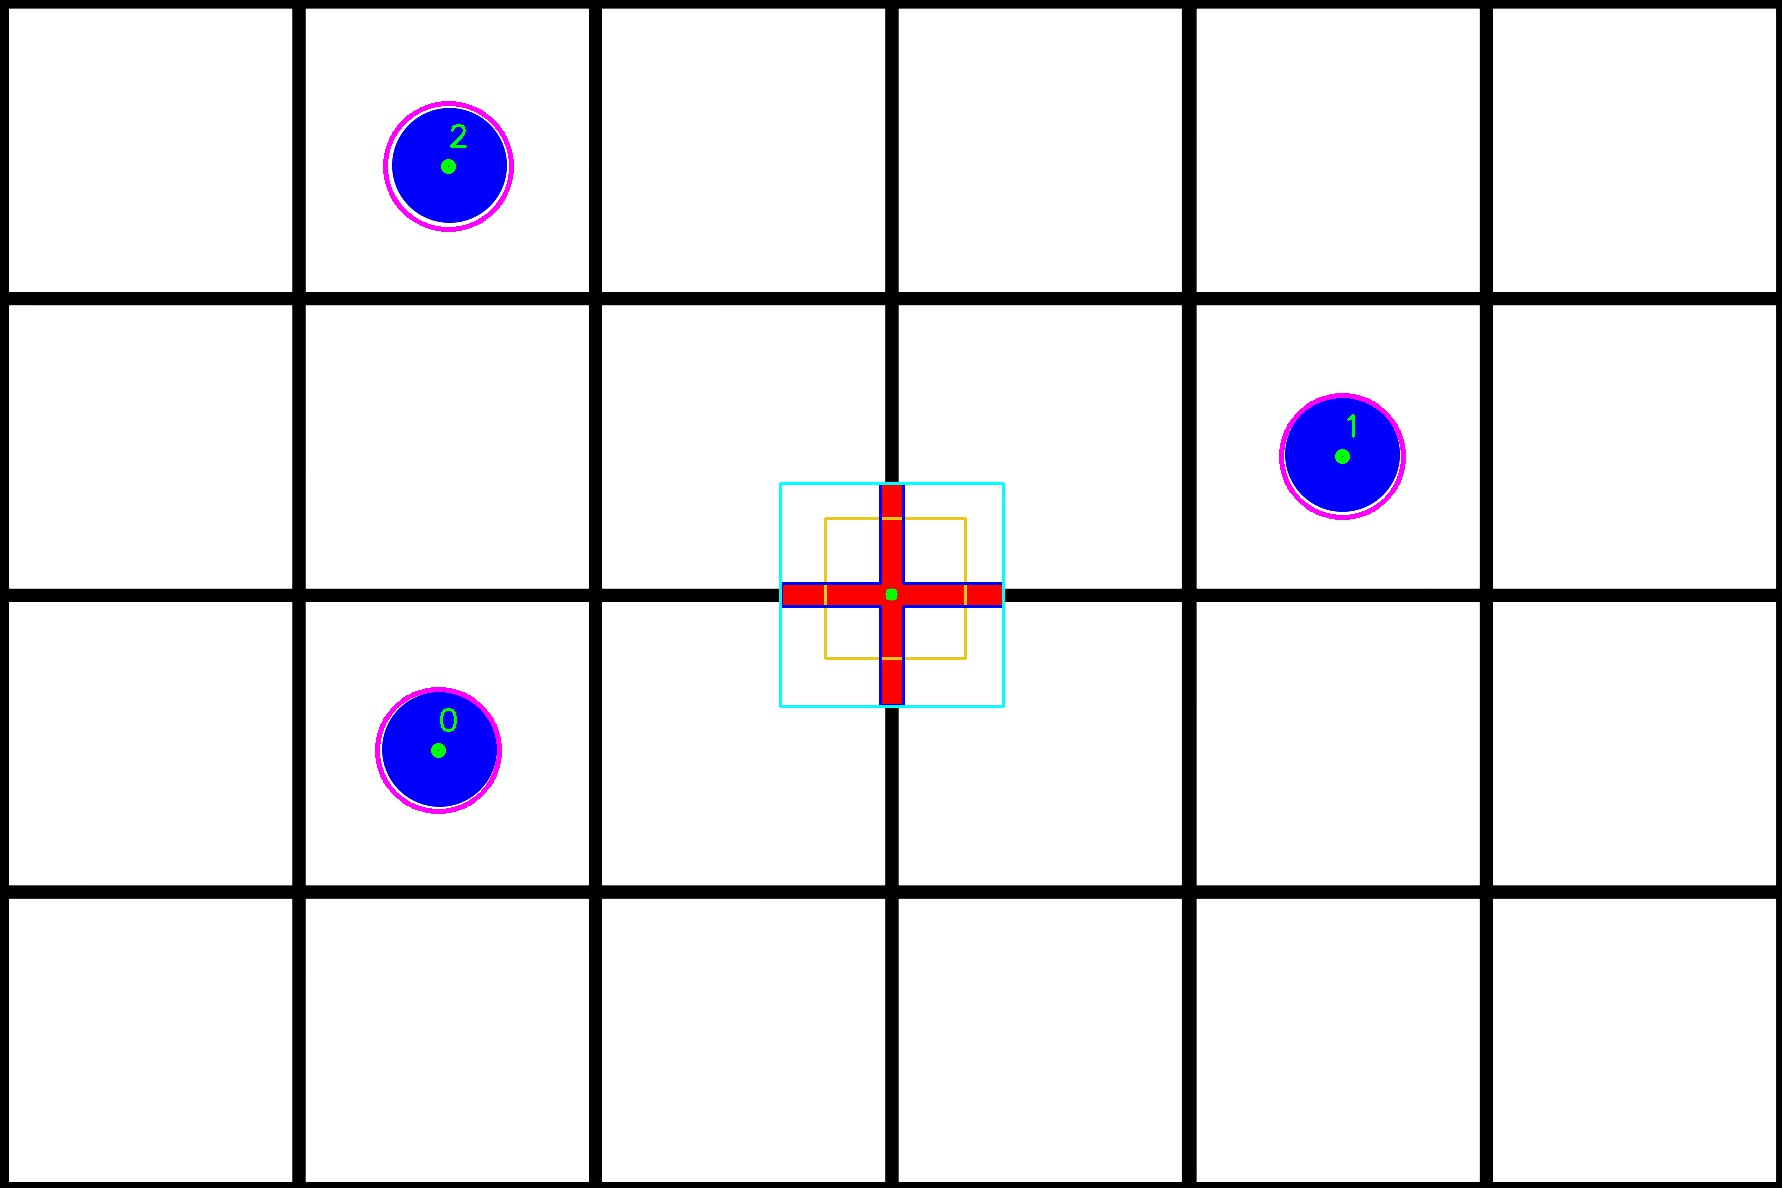
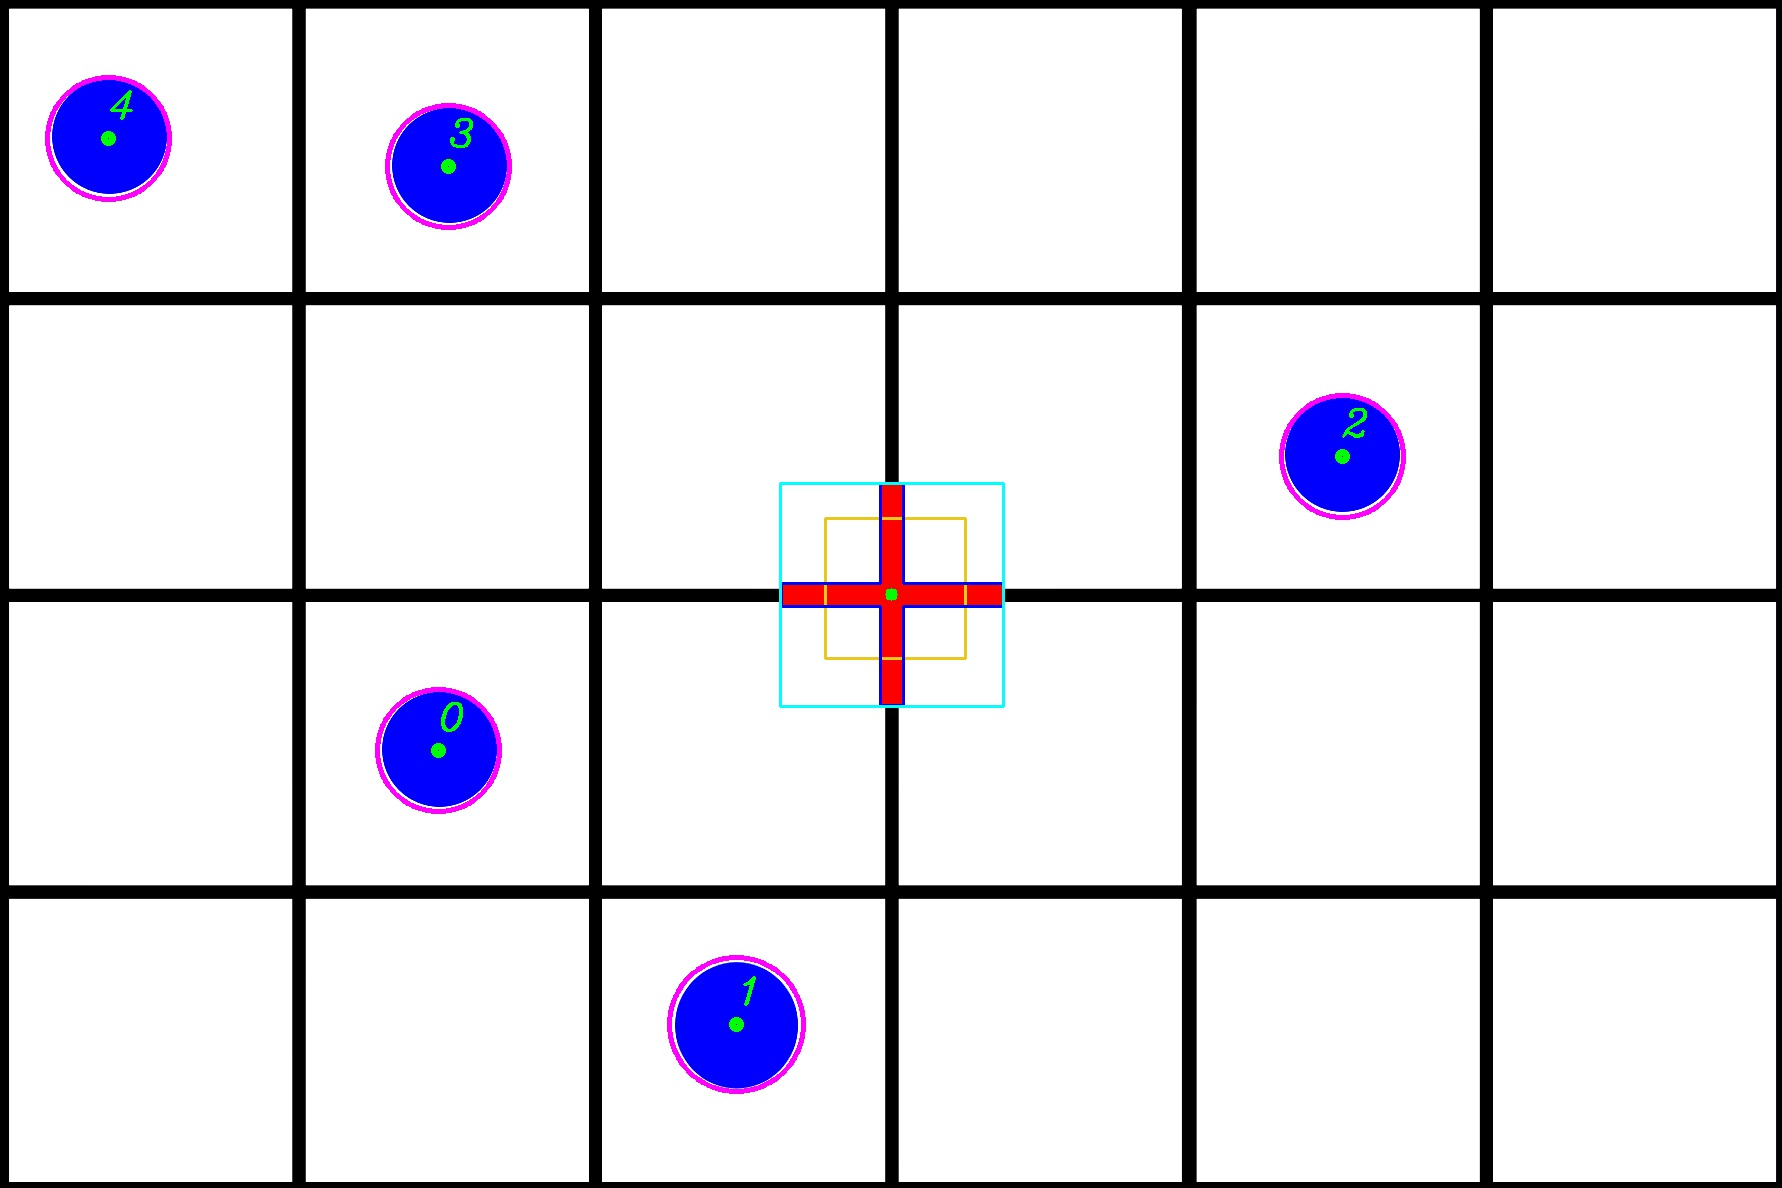
Prototype sequence calc working. Tests needed

diff --git a/main.py b/main.py
@@ -19,7 +19,7 @@ hyps = []  # list to save hypotheses to the center
 sizes = {}
 
 
-image = cv2.imread("rect4.png")  # photo4.jpg rect4.png
+image = cv2.imread("rect5.png")  # photo4.jpg rect4.png
 height, width = image.shape[:2]
 
 
@@ -171,9 +171,6 @@ kernel = np.ones((3, 3), np.uint8)
 mask_blue = cv2.morphologyEx(mask_blue, cv2.MORPH_OPEN, kernel, iterations=2)
 mask_blue = cv2.morphologyEx(mask_blue, cv2.MORPH_DILATE, kernel, iterations=4)
 
-cv2.imwrite("output2.jpg", mask_blue)
-
-
 rows = mask_blue.shape[0]
 circles = cv2.HoughCircles(
     mask_blue,
@@ -183,7 +180,7 @@ circles = cv2.HoughCircles(
     param1=1000,
     param2=6,
     minRadius=round(sizes["square"][0] / 5),
-    maxRadius=sizes["square"][0],
+    maxRadius=round(sizes["square"][0] / 2),
 )
 
 # print(circles)
@@ -204,43 +201,58 @@ for i, coord in enumerate(coordinates["aim_center"]):
     h = get_dist_to_center(
         coord[0] - coordinates["center"][0], coord[1] - coordinates["center"][1]
     )
-    h = myround(h, 25)
+    h = myround(h, 75)
     hyps.append([i, h])
+
 
 hyps.sort(key=lambda x: x[1])  # sort by hyp value
 
-# find same values
-for i in range(len(hyps) - 1):
-    if hyps[i][1] == hyps[i + 1][1]:
-        # indexes
-        a = hyps[i][0]
-        b = hyps[i + 1][0]
 
-        # coordinates['aim_center'][a][0] or coordinates['aim_center'][b][0] is greater
-        if coordinates["aim_center"][a][0] > coordinates["aim_center"][b][0]:
-            a, b = b, a
-            hyps[i], hyps[i + 1] = hyps[i + 1], hyps[i]
+# create a dictionary to store indices of elements with the same value
+same_values = {}
 
-        print(
-            "X coord first:",
-            coordinates["aim_center"][a][0],
-            "   X coord second:",
-            coordinates["aim_center"][b][0],
-        )
+# populate the dictionary
+for index, value in hyps:
+    if value not in same_values:
+        same_values[value] = []
+    same_values[value].append(index)
 
-print(hyps)
+# looks like:  {475: [1, 2], 625: [0]}
+print("sames", same_values)
+
+# iterate over the sorted hyps list
+for sames in same_values.values():
+    if len(sames) > 1:
+        sorted_sames = sorted(sames, key=lambda x: coordinates["aim_center"][x][0])
+
+sorted_hyps = [sublist[0] for sublist in hyps]
+print("sorted_sames", sorted_sames)
+print("sorted_hyps", sorted_hyps)
+
+samesstr = "".join(str(x) for x in sorted_sames)
+hypstr = "".join(str(x) for x in sorted_hyps)
+
+least_index = min(hypstr.index(str(val)) for val in sorted_sames)
+print("least_index", least_index)
+
+for i in range(least_index, len(sorted_sames)):
+    print("change", hypstr[i], "to", samesstr[i])
+    sorted_hyps[i] = int(samesstr[i])
+
+print("sorted_hyps", sorted_hyps)
+
 # put text num
-for i in range(len(hyps)):
+for i in range(len(sorted_hyps)):
     cv2.putText(
         img,
-        str(i),
+        str(i),  # text
         (
-            coordinates["aim_center"][hyps[i][0]][0],
-            coordinates["aim_center"][hyps[i][0]][1] - 20,
+            coordinates["aim_center"][sorted_hyps[i]][0],
+            coordinates["aim_center"][sorted_hyps[i]][1] - 20,
         ),
-        cv2.FONT_HERSHEY_SIMPLEX,
-        1,
-        (0, 255, 0),
-        2,
+        cv2.FONT_HERSHEY_SCRIPT_COMPLEX,  # font (handwriting)
+        1.3,  # font scale
+        (0, 255, 0),  # font color
+        2,  # text thickness
     )
 cv2.imwrite("output2.jpg", img)
